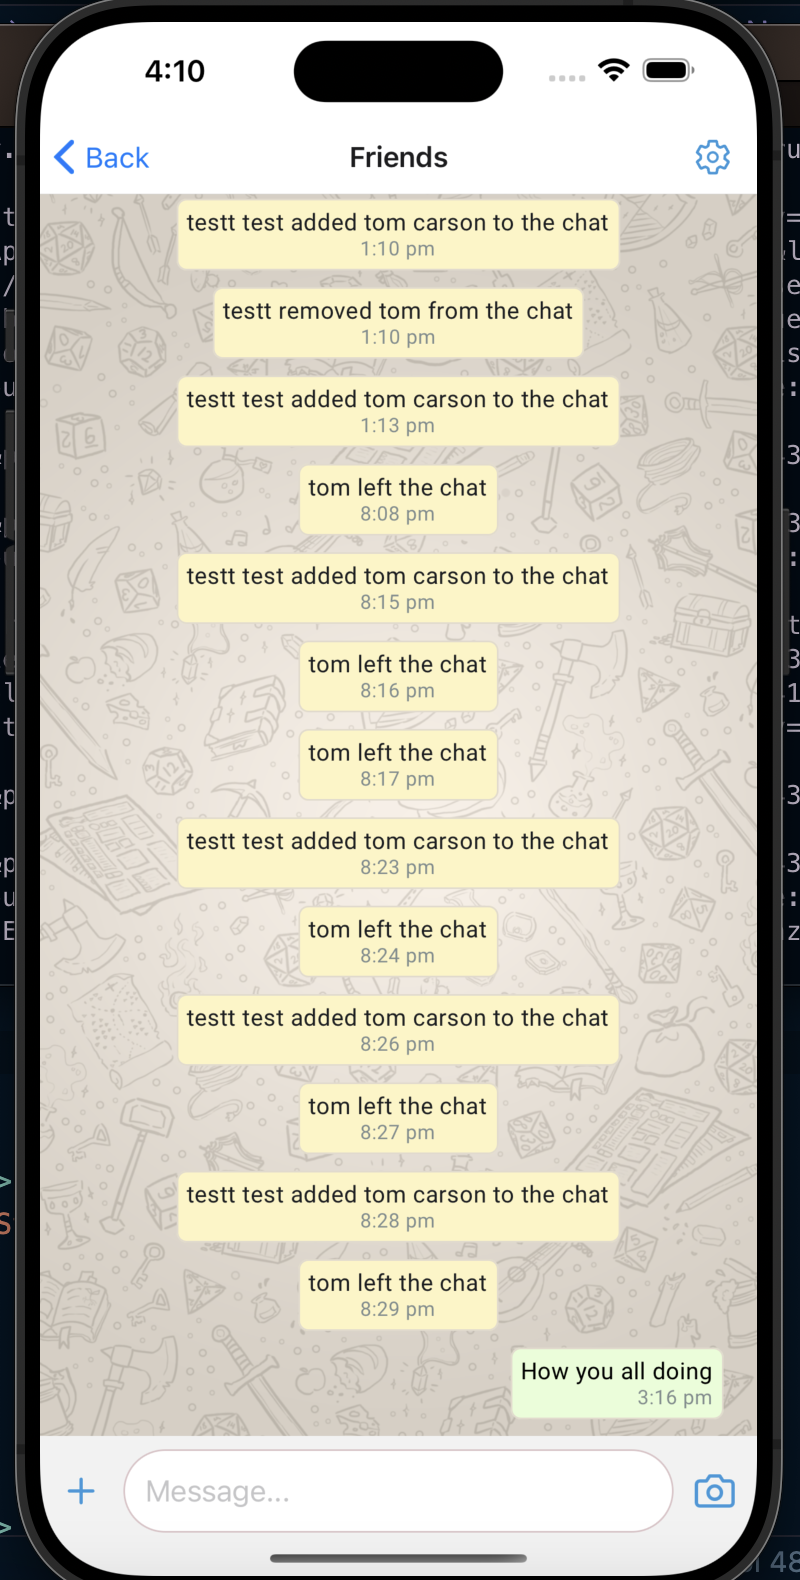
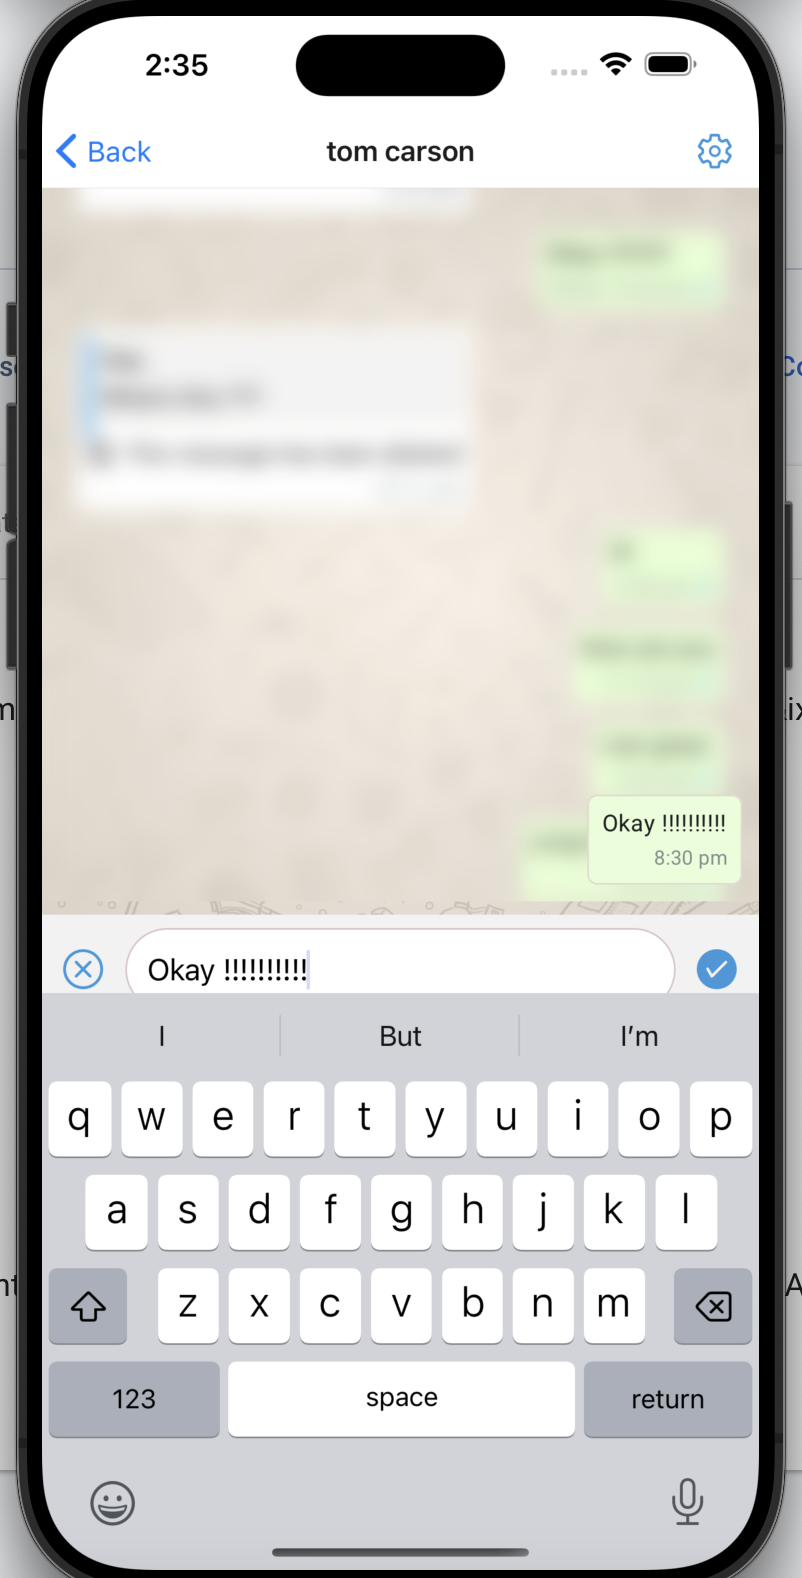
added blur effect while editing a message

diff --git a/src/screens/Chat.Screen.tsx b/src/screens/Chat.Screen.tsx
@@ -31,6 +31,7 @@ import AwesomeAlert from "../components/alerts";
 import { HeaderButtons, Item } from "react-navigation-header-buttons";
 import CustomHeaderButton from "../components/CustomHeaderButton";
 import { formatAmPm } from "../utils/helperFns";
+import { BlurView } from "expo-blur";
 
 // import BackgroundImage from "../../assets/images/BG.png";
 
@@ -436,11 +437,11 @@ const ChatScreen = (props: Props) => {
 			</KeyboardAvoidingView>
 
 			{editMessage && (
-				<View style={blurOverlayStyle}>
+				<BlurView style={blurOverlayStyle} intensity={22}>
 					<View style={styles.editMessage}>
 						<Bubble text={editMessage.text} type="message" subText={formatAmPm(editMessage.sentAt)} />
 					</View>
-				</View>
+				</BlurView>
 			)}
 
 			<AwesomeAlert
@@ -515,8 +516,10 @@ const styles = StyleSheet.create({
 		left: 0,
 		right: 0,
 		top: 0,
-		backgroundColor: "rgba(0, 0, 0, 0.5)",
+		// backgroundColor: "rgba(0, 0, 0, 0.5)",
+		backgroundColor: "transparent",
 		zIndex: 100,
+		filter: "blur(10)",
 	},
 	editMessage: {
 		flex: 1,

diff --git a/README.md b/README.md
@@ -1,4 +1,4 @@
-<h1 align="center">WhatsApp Lite</h1>
+# WhatsApp Lite
 
 <p align="center">
 <h5>Description: </h5>
@@ -20,18 +20,21 @@ The goal of this project is to build an application with exact features that the
 
 -   Authentication with email and password
 -   Realtime chat with other users
--   Group chat and private chats
+-   `Group chat` and `private chats`
 -   `Send images` in chat
--   `Reply to individual messages` in chat by taggging the message
 -   `Push notifications` for new messages
--   User profile with profile picture
+-   User profile with profile pictures
+-   Uploading group chat images
 -   Search for other users
--   Leaving group chats
+-   Leaving group chats and removing other users from group chats
 -   Realtime `delete messages for everyone` feature like in WhatsApp
+-   `Reply to individual messages` in chat by taggging the messages like in WhatsApp
 -   `Edit messages` in chat in realtime like in WhatsApp
 -   `Upload Status with images like in WhatsApp`
--   `Status views list feature like in WhatsApp`
+-   `Status views list feature along with time of view` like in WhatsApp
 -   Delete status feature
+-   `Blue ticks` for seen messages with `time of seen` like in WhatsApp with `realtime updates`
+-   `List of users who have seen the message with time of seen` like in WhatsApp for group chats
 
 **and more....**
 
@@ -212,9 +215,21 @@ Press `a` to run the app on android emulator or `i` to run on ios simulator. Or 
 
 # Screenshots
 
-|   |   |   |   |
-|---|---|---|---|
-|  ![image](https://res.cloudinary.com/dqxiycnxu/image/upload/v1695570098/WhatsApp-lite-rn/ea894jfirs2o3wiz2ygk.png) | ![image](https://res.cloudinary.com/dqxiycnxu/image/upload/v1695570098/WhatsApp-lite-rn/jhnlsf5n0gtst53kk4cr.png)  | ![image](https://res.cloudinary.com/dqxiycnxu/image/upload/v1695570097/WhatsApp-lite-rn/lxmwff5mv49vjap5vohe.png)  | ![image](https://res.cloudinary.com/dqxiycnxu/image/upload/v1695570096/WhatsApp-lite-rn/bykp1fniu7tzmyrxpe7e.png)  |
-|  ![image](https://res.cloudinary.com/dqxiycnxu/image/upload/v1695570096/WhatsApp-lite-rn/wjxhjdp57nv3y2546kbb.png)  |  ![image](https://res.cloudinary.com/dqxiycnxu/image/upload/v1695570096/WhatsApp-lite-rn/ac4yukwiqxlr2pox5upz.png)  | ![image](https://res.cloudinary.com/dqxiycnxu/image/upload/v1695570095/WhatsApp-lite-rn/umapoogms7bkwdrafmve.png)  | ![image](https://res.cloudinary.com/dqxiycnxu/image/upload/v1695570094/WhatsApp-lite-rn/dl4oograxfoabkspmri3.png)  |
-|  ![image](https://res.cloudinary.com/dqxiycnxu/image/upload/v1695570093/WhatsApp-lite-rn/mka8bob4wbvulzqx1bwa.png) | ![image](https://res.cloudinary.com/dqxiycnxu/image/upload/v1695570092/WhatsApp-lite-rn/bd82ya4ouibvo0aa200v.png)  | ![image](https://res.cloudinary.com/dqxiycnxu/image/upload/v1695570091/WhatsApp-lite-rn/q9t5iwyw8hakr795o5yr.png)   | ![image](https://res.cloudinary.com/dqxiycnxu/image/upload/v1695570091/WhatsApp-lite-rn/vxjyjmp8orufltvcmwyh.png)  |
-|  ![image](https://res.cloudinary.com/dqxiycnxu/image/upload/v1695570090/WhatsApp-lite-rn/te78be72vhrova5niowr.png) | ![image](https://res.cloudinary.com/dqxiycnxu/image/upload/v1695570090/WhatsApp-lite-rn/cx9v5i8qw7ayyz1tpymn.png)  | ![image](https://res.cloudinary.com/dqxiycnxu/image/upload/v1695570090/WhatsApp-lite-rn/ufubztkvrhasioiep9s0.png) | ![image](https://res.cloudinary.com/dqxiycnxu/image/upload/v1695570089/WhatsApp-lite-rn/wy0zs292shjzumsjbeaj.png) |
+|     |     |     |     |
+|-----|-----|-----|-----|
+| ![image](https://res.cloudinary.com/dqxiycnxu/image/upload/v1695764027/WhatsApp-lite-rn/r2j9myyd8v4qqm07dqvi.png)  | ![image](https://res.cloudinary.com/dqxiycnxu/image/upload/v1695764028/WhatsApp-lite-rn/sf3q17fl9jcvj3napei4.png)   | ![image](https://res.cloudinary.com/dqxiycnxu/image/upload/v1695764028/WhatsApp-lite-rn/s3aqsj6nd3iysdtqg8zo.png)   | ![image](https://res.cloudinary.com/dqxiycnxu/image/upload/v1695764030/WhatsApp-lite-rn/xcp5rxkjyjshdqaaygze.png)   |
+| ![image](https://res.cloudinary.com/dqxiycnxu/image/upload/v1695764029/WhatsApp-lite-rn/hsskeycxrrqskbykyzwf.png)   | ![image](https://res.cloudinary.com/dqxiycnxu/image/upload/v1695764030/WhatsApp-lite-rn/p276yxdmtvmlshymljex.png)   | ![image](https://res.cloudinary.com/dqxiycnxu/image/upload/v1695764030/WhatsApp-lite-rn/zhwhlvnzi4r7jfww7t4d.png)  | ![image](https://res.cloudinary.com/dqxiycnxu/image/upload/v1695764034/WhatsApp-lite-rn/r8hjleq24hyl1bbni9rd.png)   |
+| ![image](https://res.cloudinary.com/dqxiycnxu/image/upload/v1695764029/WhatsApp-lite-rn/mliyveeylt0dyjkeuyrc.png)   | ![image](https://res.cloudinary.com/dqxiycnxu/image/upload/v1695764036/WhatsApp-lite-rn/s1tayrhlbnnaj4eqsszj.png)  | ![image](https://res.cloudinary.com/dqxiycnxu/image/upload/v1695764033/WhatsApp-lite-rn/jzljofosdpqdpoyqs51m.png)  | ![image](https://res.cloudinary.com/dqxiycnxu/image/upload/v1695764033/WhatsApp-lite-rn/uhsrttr0kkvkxbbfuj0q.png) |
+| ![image](https://res.cloudinary.com/dqxiycnxu/image/upload/v1695764034/WhatsApp-lite-rn/k0tnylmyspobdkl1b84o.png)  | ![image](https://res.cloudinary.com/dqxiycnxu/image/upload/v1695764030/WhatsApp-lite-rn/byyknpglqkvihvo0y0ts.png)  | ![image](https://res.cloudinary.com/dqxiycnxu/image/upload/v1695764030/WhatsApp-lite-rn/pok7qro7lo9amskj6aac.png) | ![image](https://res.cloudinary.com/dqxiycnxu/image/upload/v1695764028/WhatsApp-lite-rn/yplddumulm1hq1sidfcf.png)  |
+| ![image](https://res.cloudinary.com/dqxiycnxu/image/upload/v1695764031/WhatsApp-lite-rn/zdc0y7fkdvvjlsrsmoiy.png)  | ![image](https://res.cloudinary.com/dqxiycnxu/image/upload/v1695764032/WhatsApp-lite-rn/xzk9mwam6fqvum0nr1hk.png)  | ![image](https://res.cloudinary.com/dqxiycnxu/image/upload/v1695764033/WhatsApp-lite-rn/lxjscya9qiwhl4xfybrf.png) | ![image](https://res.cloudinary.com/dqxiycnxu/image/upload/v1695764035/WhatsApp-lite-rn/aobnfxk07thfbonl0hj3.png)  |
+
+ 
+
+ 
+<!-- |     |     |     |     |
+|-----|-----|-----|-----|
+| 1   | 2   | 3   | 4   |
+| 5   | 6   | 7   | 8   |
+| 9   | 10  | 11  | 12  |
+| 13  | 14  | 15  | 16  |
+| 17  | 18  | 19  | 20  | -->
